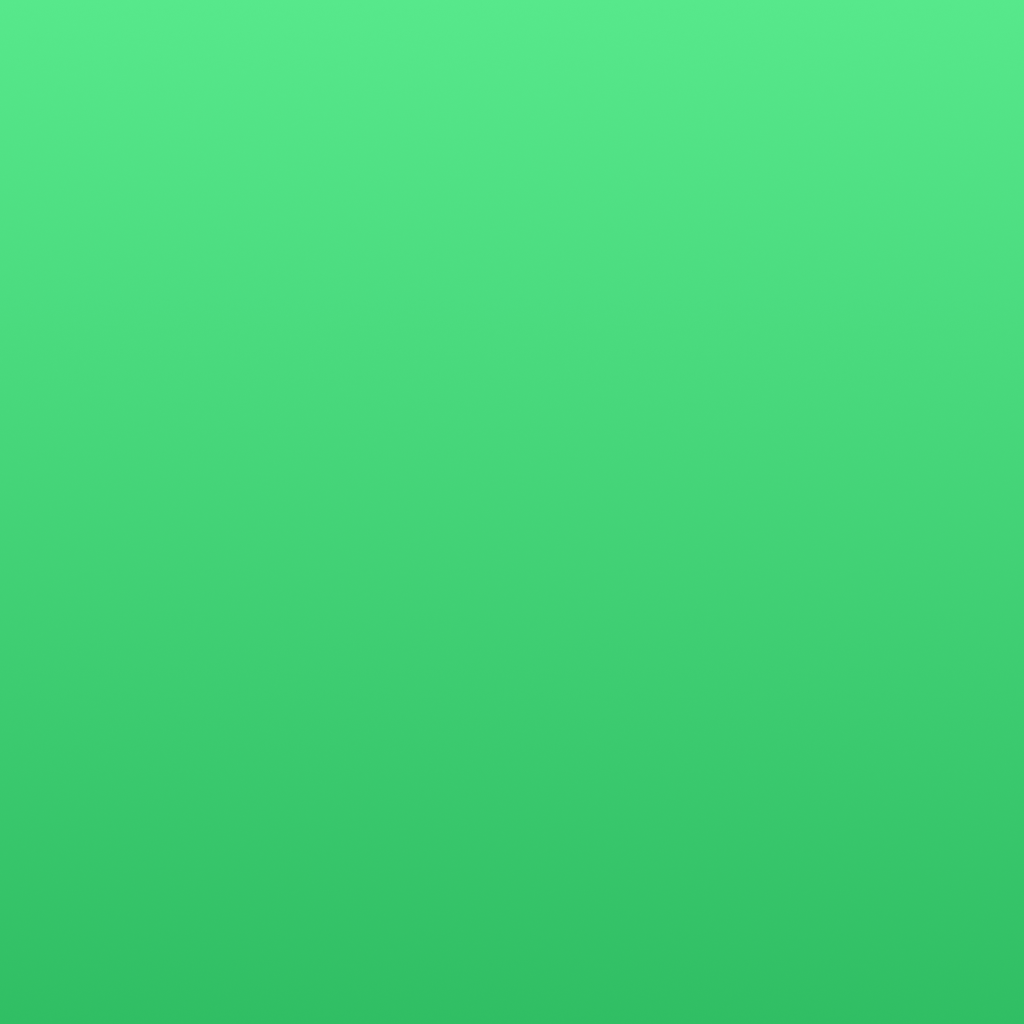
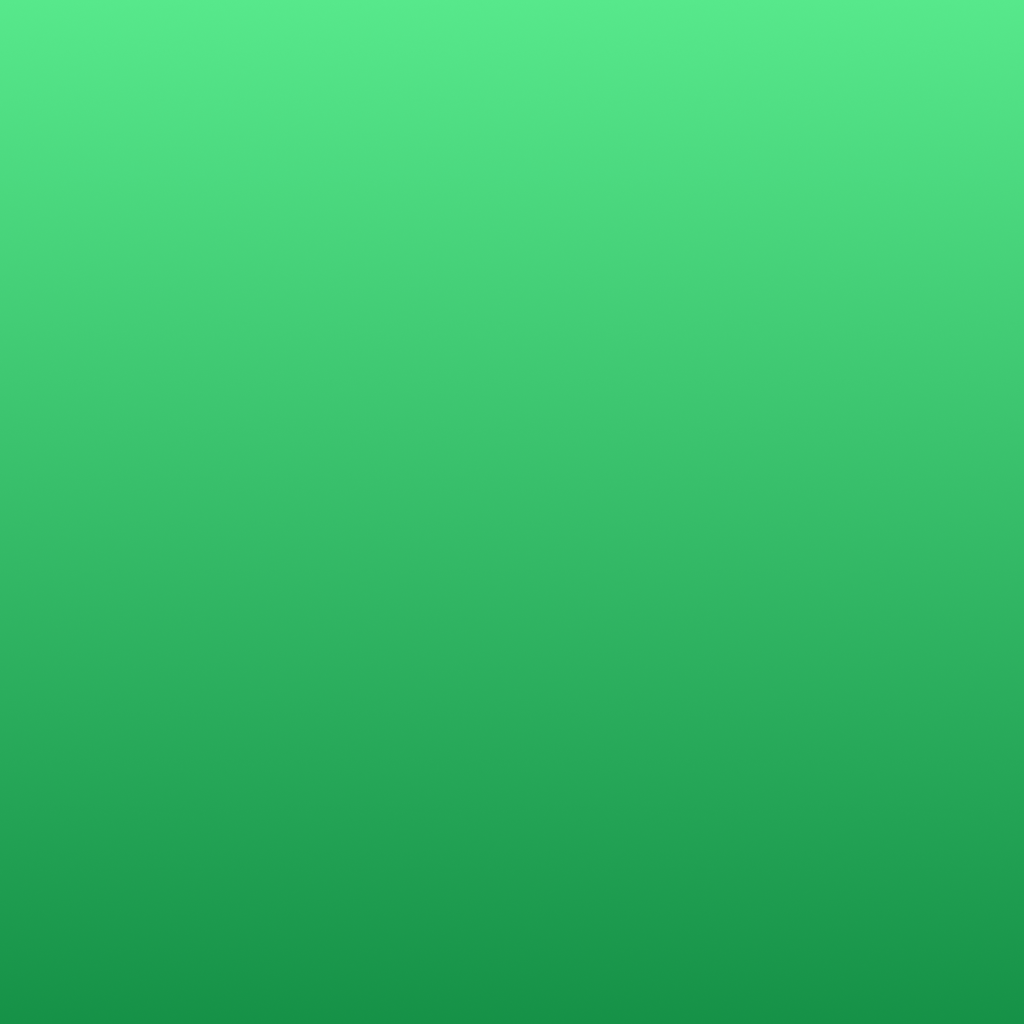
fix: made the last adjustments before building the final build

diff --git a/components/Main.jsx b/components/Main.jsx
@@ -1,5 +1,5 @@
 import { useState } from 'react';
-import { View, StyleSheet, ScrollView, KeyboardAvoidingView, Platform, Text } from 'react-native';
+import { View, StyleSheet, KeyboardAvoidingView, Platform, Text } from 'react-native';
 import Form from "@/components/Form";
 import Loading from "@/components/Loading";
 import Suggestion from "@/components/Suggestion";
@@ -66,8 +66,14 @@ Inception`
     }
 
     async function handleSubmit() {
+        if (!data.favMovie || !data.favReleaseDate || !data.genreMovie) {
+            setError("Pentru a căuta, răspunde la fiecare întrebare.");
+            return
+        }
+
         setIsLoading(true);
         setError(null);
+
 
         try {
             const title = await getSuggestion();
@@ -76,6 +82,7 @@ Inception`
             const movie = results?.[0];
 
             if (!movie?.id) {
+                setError("Nu am putut găsi un film. Încearcă din nou.");
                 throw new Error(`No TMDB result found for "${title}"`);
             }
 
@@ -103,6 +110,7 @@ Inception`
         <KeyboardAvoidingView
             style={{ flex: 1 }}
             behavior={Platform.OS === 'ios' ? 'padding' : undefined}
+            keyboardVerticalOffset={0}
         >
             <View style={styles.container}>
                 {isLoading ? (

diff --git a/components/Loading.jsx b/components/Loading.jsx
@@ -39,15 +39,16 @@ const styles = StyleSheet.create({
         gap: 16,
     },
     spinner: {
-        width: 40,
-        height: 40,
-        borderRadius: 20,
-        borderWidth: 3,
+        width: 42,
+        height: 42,
+        borderRadius: 16,
+        borderWidth: 6,
         borderColor: 'rgba(87, 232, 139, 0.25)',
         borderTopColor: '#57e88b',
     },
     loadingText: {
         textAlign: 'center',
+        fontFamily: 'Rubik_700Bold',
         width: '100%',
         color: 'white',
         fontSize: 14,

diff --git a/components/Question.jsx b/components/Question.jsx
@@ -46,7 +46,6 @@ const styles = StyleSheet.create({
         flexDirection: 'row',
         gap: 20,
         alignItems: 'center',
-        marginRight: 10
     },
     questionBackground: {
         height: 40,
@@ -65,13 +64,14 @@ const styles = StyleSheet.create({
     questionTitle: {
         fontSize: 20,
         fontFamily: 'Rubik_600SemiBold',
-        marginRight: 20,
+        marginRight: 50,
         color: "white",
     },
     questionSubTitle: {
         margin: 0,
         fontSize: 14,
         fontFamily: 'Rubik_400Regular',
+        marginRight: 50,
         color: "#91a9b2"
     }
 })

diff --git a/components/Suggestion.jsx b/components/Suggestion.jsx
@@ -16,7 +16,7 @@ const Suggestion = ({ data, reset }) => {
                         source={{ uri: posterUrl }}
                         style={styles.poster}
                         contentFit="cover"
-                        transition={300}
+                        transition={200}
                     />
                 ) : (
                     <View style={styles.placeholder}>
@@ -30,7 +30,7 @@ const Suggestion = ({ data, reset }) => {
                         <Text style={styles.mediaText}>{data.media_type === 'movie' ? "Film " : "Serial  "}</Text>
                     </View>
                 </View>
-                <Text style={styles.overview} numberOfLines={5}>{data.overview}</Text>
+                <Text style={styles.overview} numberOfLines={6}>{data.overview}</Text>
             </View>
             <TouchableOpacity
                 activeOpacity={0.8}

diff --git a/components/Form.jsx b/components/Form.jsx
@@ -61,8 +61,7 @@ const styles = StyleSheet.create({
     },
     content: {
         flex: 1,
-        paddingHorizontal: 40,
-        paddingVertical: 40,
+        padding: 40,
     },
     textarea: {
         width: '100%',